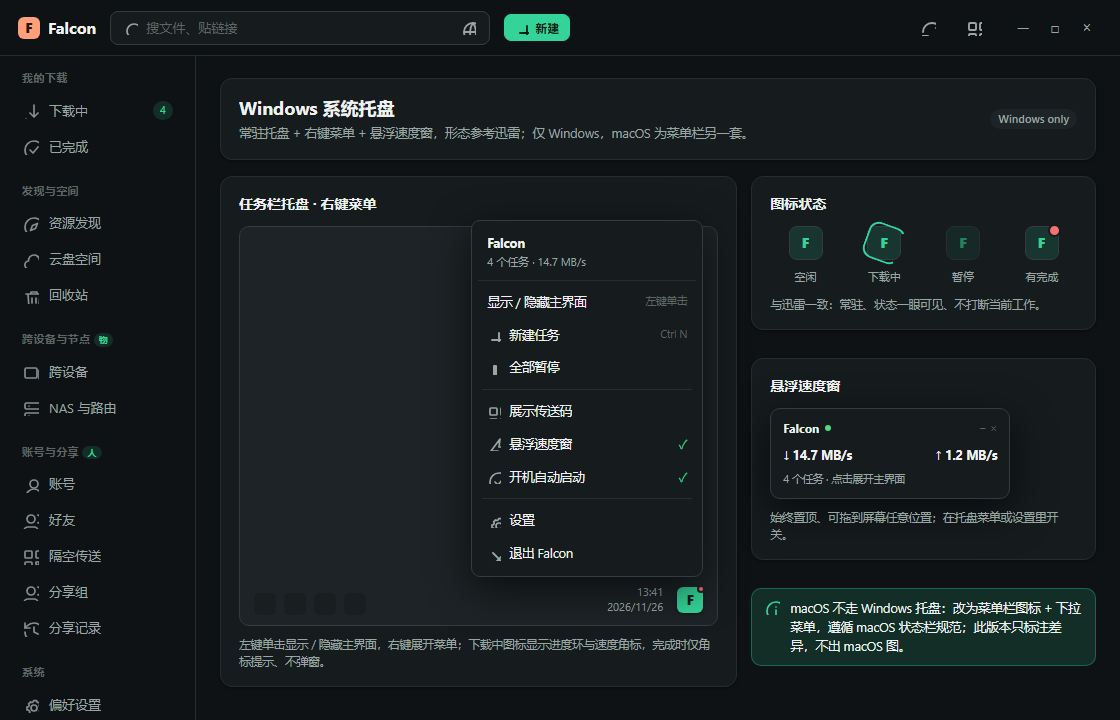
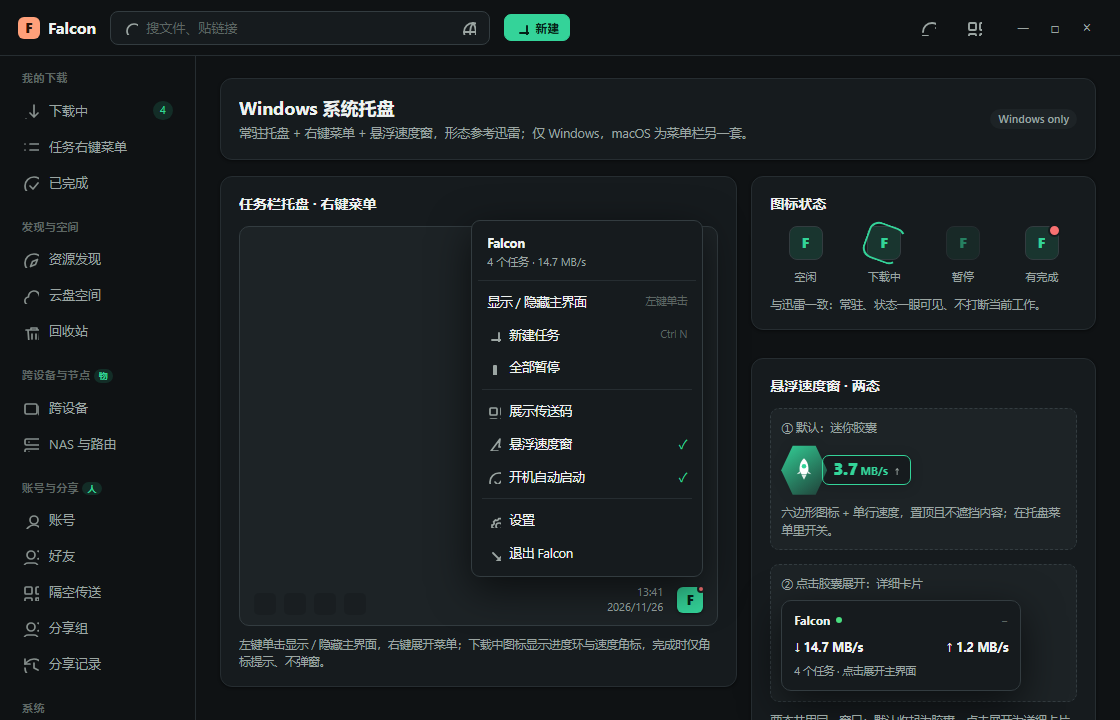
ui2

diff --git a/docs/design/ui-next/styles.css b/docs/design/ui-next/styles.css
@@ -820,7 +820,7 @@ hr.soft { border: 0; border-top: 1px solid var(--divider); margin: 14px 0; }
 .ctx-item.has-sub { position: relative; }
 .ctx-item .sub-arrow { width: 12px; height: 12px; margin-left: auto; }
 .ctx-sep { height: 1px; background: var(--divider); margin: 5px 4px; }
-.ctx-sub { position: absolute; left: 236px; top: -6px; width: 236px; padding: 6px; background: var(--card); border: 1px solid var(--border); border-radius: 9px; box-shadow: var(--shadow-pop); }
+.ctx-sub { position: absolute; left: 236px; top: -96px; width: 236px; padding: 6px; background: var(--card); border: 1px solid var(--border); border-radius: 9px; box-shadow: var(--shadow-pop); }
 .ctx-sub-title { font-size: 10.5px; color: var(--text-2); padding: 5px 8px 7px; }
 .ctx-sub-item { display: flex; align-items: center; justify-content: space-between; gap: 8px; font-size: 12px; padding: 7px 8px; border-radius: 6px; }
 .ctx-sub-item:hover { background: var(--hover-bg); }
@@ -874,6 +874,25 @@ hr.soft { border: 0; border-top: 1px solid var(--divider); margin: 14px 0; }
 .ts-ico.active::after { content: ""; position: absolute; inset: -3px; border-radius: 11px; border: 2px solid var(--accent); border-right-color: transparent; transform: rotate(20deg); }
 .ts-ico.paused { opacity: .55; }
 .ts-ico.done::after { content: ""; position: absolute; right: -3px; top: -3px; width: 9px; height: 9px; border-radius: 50%; background: var(--err); border: 2px solid var(--card); }
+.fs-state.fs-active { border-style: solid; border-color: var(--accent); box-shadow: 0 0 0 2px var(--accent-ring); }
+.fs-demo { display: flex; flex-direction: column; gap: 14px; margin-top: 10px; }
+.fs-state { padding: 10px; border: 1px dashed var(--border); border-radius: 9px; background: var(--control-bg); }
+.fs-mini { display: inline-flex; align-items: center; gap: 0; cursor: pointer; filter: drop-shadow(0 2px 6px rgba(0,0,0,.18)); }
+.fs-hex {
+  width: 46px; height: 52px; display: grid; place-items: center; color: #fff;
+  background: linear-gradient(145deg, var(--accent), var(--accent-soft));
+  clip-path: polygon(25% 3%, 75% 3%, 100% 50%, 75% 97%, 25% 97%, 0 50%);
+}
+.fs-hex svg { width: 30px; height: 30px; }
+.fs-pill {
+  display: inline-flex; align-items: baseline; gap: 3px; height: 30px; padding: 0 10px;
+  margin-left: -5px; border: 1.5px solid var(--accent); border-radius: 7px;
+  background: var(--card); color: var(--accent); font-size: 12px;
+}
+.fs-pill b { font-size: 17px; font-weight: 800; letter-spacing: -.5px; }
+.fs-pill span { font-size: 11px; font-weight: 650; }
+.fs-pill .fs-up { font-style: normal; font-size: 10px; margin-left: 4px; color: var(--text-2); }
+.fs-collapse { cursor: pointer; font-size: 14px; line-height: 1; }
 .fly-speed { width: 240px; border: 1px solid var(--border); border-radius: 10px; background: var(--card); box-shadow: var(--shadow-pop); padding: 10px 12px; }
 .fs-head { display: flex; gap: 6px; align-items: center; font-size: 12px; font-weight: 700; }
 .fs-dot { width: 6px; height: 6px; border-radius: 50%; background: var(--ok); }

diff --git a/docs/design/ui-next/app.js b/docs/design/ui-next/app.js
@@ -291,6 +291,17 @@
   drawQR();
   startTicker();
 
+  // 悬浮速度窗：迷你胶囊 ↔ 详细卡片，点击时标注当前态
+  document.querySelectorAll("[data-fs-toggle], [data-fs-collapse]").forEach(function (el) {
+    el.addEventListener("click", function () {
+      var demo = el.closest(".fs-demo");
+      if (!demo) return;
+      demo.querySelectorAll(".fs-state").forEach(function (s) { s.classList.remove("fs-active"); });
+      var target = el.classList.contains("fs-collapse") ? el.closest(".fs-state") : el.closest(".fs-state").nextElementSibling;
+      if (target) target.classList.add("fs-active");
+    });
+  });
+
   /* ---------- 键盘快捷键：← → 逐屏审查 ---------- */
   document.addEventListener("keydown", function (e) {
     if (e.target.matches("input, textarea")) return;

diff --git a/docs/design/ui-next/index.html b/docs/design/ui-next/index.html
@@ -236,7 +236,7 @@
             <span>463.5 MB</span><span>—</span><span>—</span><span class="tag gray">已暂停</span>
           </div>
 
-          <div class="ctx-menu" style="top:78px;left:36%">
+          <div class="ctx-menu" style="top:16px;left:36%">
             <div class="ctx-item"><svg class="ico"><use href="#i-pause"/></svg>暂停下载<kbd>Ctrl P</kbd></div>
             <div class="ctx-item"><svg class="ico"><use href="#i-folder"/></svg>打开文件夹<kbd>Ctrl E</kbd></div>
             <div class="ctx-item"><svg class="ico"><use href="#i-check"/></svg>收藏至收藏夹</div>

diff --git a/docs/design/ui-next/README.zh.md b/docs/design/ui-next/README.zh.md
@@ -12,7 +12,7 @@
 双击 `index.html` 用浏览器打开即可（纯静态，无依赖、无需构建）。
 
 - 顶部工具条：点色块切主题色，点「浅色 / 深色」切模式——**所有界面同步换色**，可直接对比三套主题在同一界面的观感。
-- 左侧导航：逐屏点击审查。每项对应一个界面，共 **22 屏**（含 6 个弹层预览 + 1 个 Web 端 + 1 个 Windows 托盘）。
+- 左侧导航：逐屏点击审查。每项对应一个界面，共 **24 屏**（含 7 个弹层预览 + 1 个 Web 端 + 1 个 Windows 托盘）。
 - 键盘 `←` / `→`：按顺序在界面间翻页。
 - 界面内的开关、复选、分段按钮、匹配码输入框都可点击操作，方便验证交互态。
 
@@ -33,7 +33,7 @@
 - 派生 token：`--accent-soft` / `--accent-ring` / `--track` / 状态色（ok/warn/err/info），均按方向 accent 派生，换肤时同步切换。
 - 主题切换入口在**设置页 → 外观**：主题色（暖橙/冷蓝/石墨绿）+ 主题模式（浅色/深色/**跟随系统**）。跟随系统时按 `prefers-color-scheme` 实时应用；顶部审查工具条是评审用的全局控制，与设置页双向联动。
 
-## 界面清单（22 屏）
+## 界面清单（24 屏）
 
 **沿用现有结构（本机 Falcon 实测 + 旧原型 14 功能面）**
 
@@ -41,7 +41,7 @@
 |---|---|---|
 | 1 | 下载中 · 卡片视图 | 首页；统计卡、4 类任务态（下载中/暂停/失败） |
 | 2 | 下载中 · 列表视图 | 同一数据的表格视图，七列；**默认进入列表视图** |
-| 3 | 已完成 | 完成列表、做种态、保存位置 |
+| 3 | 任务右键菜单 | 任务行右键 10 项 + 快捷键 + 「移动文件到」子菜单 + 多选态；显示原始节点数 / 剩余时间；剔除会员文案 |
 | 4 | 资源发现 | 关键词 + 大小筛选 + 相关度排序 + 一键下载；已启用资源站默认折叠为图标 |
 | 5 | 云盘空间 | S3/COS 与 NAS 连接卡、文件列表 |
 | 6 | 回收站 | 7 天保留期、还原/彻底删除 |
@@ -64,10 +64,11 @@
 | 18 | 分享记录 | 后续阶段 · 隔空传送与分组分享的追溯，不保留码本身 |
 | 19 | 登录（弹层） | 复用现有登录弹窗；第一期可隐藏入口 |
 | 20 | 编辑资料（弹层） | 昵称、头像、只读 Falcon ID |
-| 21 | NAS / 路由版 Web 管理 | 常驻节点最小集：任务 + 存储 + 配对，仅局域网 |
-| 22 | Windows 系统托盘 | 仅 Windows：常驻图标（空闲/下载/暂停/完成四态）+ 右键菜单 + 悬浮速度窗；macOS 为菜单栏另一套，本版不出图 |
+| 21 | 文件详情（弹层） | 由右键菜单进入：大小、路径、链接、原始节点数、校验；可跳云盘 |
+| 22 | NAS / 路由版 Web 管理 | 常驻节点最小集：任务 + 存储 + 配对，仅局域网 |
+| 23 | Windows 系统托盘 | 仅 Windows：常驻图标（空闲/下载/暂停/完成四态）+ 右键菜单 + 悬浮速度窗两态（迷你胶囊 / 展开详情）；macOS 为菜单栏另一套，本版不出图 |
 
-> 弹层预览共 6 个：屏 8 添加下载任务、屏 10 展示传送码、屏 11 匹配码配对、屏 13 添加 NAS 节点、屏 19 登录、屏 20 编辑资料。
+> 弹层预览共 7 个：屏 8 添加下载任务、屏 10 展示传送码、屏 11 匹配码配对、屏 13 添加 NAS 节点、屏 19 登录、屏 20 编辑资料、屏 21 文件详情。
 >
 > **配对机制**：扫码与手动输入是同一串 6 位码的两种形态，配对流程完全相同（syncbond / SPAKE2，端到端加密，中继看不到码与密钥）。扫码更快、手输兜底。
 
@@ -91,14 +92,20 @@
 
 ### 平台差异
 
-- Windows：系统托盘常驻 + 右键菜单 + 悬浮速度窗，形态参考迅雷（屏 22）。
+- Windows：系统托盘常驻 + 右键菜单 + 悬浮速度窗，形态参考迅雷（屏 23）。悬浮速度窗为两态：默认迷你胶囊（六边形图标 + 单行速度 3.7 MB/s），点击展开为详细卡片（上下行速度 + 进度 + 任务数）；窗口置顶可拖动，状态在托盘菜单开关。
 - macOS：使用菜单栏图标与下拉菜单，遵循系统状态栏规范；与 Windows 托盘是两套实现，本版只标注差异。
+
+### 任务右键菜单（屏 3）
+
+- 沿用迅雷右键菜单形态并 Falcon 化：暂停下载 `Ctrl P`、打开文件夹 `Ctrl E`、收藏至收藏夹、文件详情 `Ctrl I`、添加到云盘 `Ctrl Y`、删除 `Del`、彻底删除 `Shift Del`、移动文件到（子菜单）、复制下载链接 `Ctrl C`、取消全选（多选态出现过）。
+- 剔除「会员试用」等商业化文案；任务行补「原始节点数 / 剩余时间」，便于判断来源质量与完成时间。
+- 「文件详情」「添加到云盘」做成可跳转动作，分别进入屏 21 与屏 5；菜单与列表共用同一任务对象。
 
 ## 设计图导出
 
 `src/public/design/ui-next/screens/` 下是原型导出的静态图：
 
-- 3 主题色 × 亮/暗 × 22 屏 = **132 张 PNG**；目录名如 `warm-light`、`cold-dark`。
+- 3 主题色 × 亮/暗 × 24 屏 = **144 张 PNG**；目录名如 `warm-light`、`cold-dark`。新增两屏在各目录末尾顺延编号（如 warm-light 的 `023-task-context-menu.png`、`024-task-detail.png`）。
 - 文件名序号为导出批次号，界面名称见文件名后半段；README 与文档站引用这些图片。
 - 导出模式由 URL 参数控制：`?clean=1&theme=warm&mode=light&screen=download-table`，会隐藏评审工具条并关闭入场动画。
 
@@ -114,14 +121,14 @@
 3. 左侧导航「跨设备与节点」与「账号与分享」两个分组是否符合预期位置？
 4. 第一期是否隐藏账号入口（屏 14/15/17/18 仅作设计预留）？
 5. LocalSend 兼容是否进入第一期；DHT 节点数是否在第一期结果里展示？
-6. Windows 托盘菜单项（尤其「展示传送码」「悬浮速度窗」）是否符合预期？
+6. Windows 托盘菜单项（尤其「展示传送码」「悬浮速度窗」）与悬浮速度窗两态是否符合预期？
 7. NAS Web 管理界面「任务 + 存储 + 配对」最小集是否够用？
 
 ## 文件
 
 ```
 ui-next/
-├── index.html   # 原型入口（22 屏 + 审查工具条 + 模拟窗口壳）
+├── index.html   # 原型入口（24 屏 + 审查工具条 + 模拟窗口壳）
 ├── styles.css   # 6 套主题变量（3 主题 × 2 模式）+ 组件样式
 ├── app.js       # 主题切换 / 导航 / 轻交互 / 截图导出参数
 └── README.zh.md # 本说明

diff --git a/docs/README.zh.md b/docs/README.zh.md
@@ -37,7 +37,7 @@ pnpm docs:build
 
 ## 当前设计稿
 
-桌面端唯一在维护的设计是 `design/ui-next/`（纯静态交互原型，22 屏）。导出的设计图在 `src/public/design/ui-next/screens/`：3 主题色 × 亮暗 × 22 屏 = 132 张 PNG，文档中的设计图统一引用这里。
+桌面端唯一在维护的设计是 `design/ui-next/`（纯静态交互原型，24 屏）。导出的设计图在 `src/public/design/ui-next/screens/`：3 主题色 × 亮暗 × 24 屏 = 144 张 PNG，文档中的设计图统一引用这里。
 
 ![Falcon 下载中 · 列表视图（暖橙默认）](src/public/design/ui-next/screens/warm-light/001-download-table.png)
 
@@ -51,10 +51,10 @@ docs/
 ├── README.md / README.zh.md    # 文档站说明（双语索引）
 ├── ARCHIVE.md                # 根目录历史文档索引
 ├── design/                   # 当前设计
-│   └── ui-next/              # 22 屏交互原型 + 设计说明（唯一保留设计）
+│   └── ui-next/              # 24 屏交互原型 + 设计说明（唯一保留设计）
 ├── src/                      # VitePress 源文件
 │   ├── public/               # 静态资源
-│   │   └── design/ui-next/screens/  # 132 张设计图（文档引用源）
+│   │   └── design/ui-next/screens/  # 144 张设计图（文档引用源）
 │   ├── index.md              # 首页
 │   ├── .vitepress/           # VitePress 配置
 │   │   └── config.mts        # 主配置

diff --git a/docs/src/zh/developer/design-prototypes.md b/docs/src/zh/developer/design-prototypes.md
@@ -26,7 +26,7 @@
 
 ## 原型覆盖范围
 
-原型共 22 屏：现有下载 / 资源发现 / 云盘 / 回收站 / 偏好设置，以及规划中的
+原型共 24 屏：现有下载 / 资源发现 / 云盘 / 回收站 / 偏好设置，以及规划中的
 跨设备、账号与分享、NAS 与 Windows 托盘。关键结论：
 
 - **跨设备 ↔ 账号与分享**：设备属「物」，账号属「人」，分享组连接两者。
@@ -34,8 +34,8 @@
   更快输入方式。
 - **LocalSend** 可作为局域网发现通道兼容；AirDrop 只走系统分享入口（AWDL
   为私有协议）；DHT 是下载结果的 peer 发现层，不是资源站。
-- **Windows 托盘**为常驻图标 + 右键菜单 + 悬浮速度窗；macOS 是另一套菜单栏
-  实现。
+- **Windows 托盘**为常驻图标 + 右键菜单 + 悬浮速度窗（默认迷你胶囊、点击展开详细卡片）；macOS 是另一套菜单栏实现。
+- **任务右键菜单**沿用迅雷 10 项形态（暂停 / 文件夹 / 收藏 / 详情 / 云盘 / 删除 / 彻底删除 / 移动 / 复制链接 / 取消全选），Falcon 化去掉会员文案，并补「原始节点数 / 剩余时间」；「文件详情」「添加到云盘」可跳转。
 
 完整设计说明见仓库中的 `docs/design/ui-next/README.zh.md`。
 

diff --git a/docs/src/developer/design-prototypes.md b/docs/src/developer/design-prototypes.md
@@ -29,7 +29,7 @@ brand anchor: it stays the same in every theme.
 
 ## What the prototype covers
 
-The prototype has 22 screens: the existing download / discovery / cloud /
+The prototype has 24 screens: the existing download / discovery / cloud /
 recycle / settings flows, plus the planned cross-device, account & sharing,
 NAS, and Windows tray flows. Key decisions documented there:
 
@@ -41,8 +41,12 @@ NAS, and Windows tray flows. Key decisions documented there:
 - **LocalSend** can be supported as a LAN discovery channel; AirDrop stays a
   system share entry (AWDL is proprietary); DHT is a peer-discovery layer for
   download results, not a resource site.
-- **Windows tray**: persistent icon, context menu, and floating speed window;
-  macOS uses a separate menu-bar implementation.
+- **Windows tray**: persistent icon, context menu, and a two-state floating
+  speed window (mini capsule by default, expandable detail card); macOS uses
+  a separate menu-bar implementation.
+- **Task context menu**: the 10-item Xunlei-shaped menu is Falcon-branded
+  (no membership promo), adds original-peer-count / remaining-time on rows,
+  and makes "File details" and "Add to cloud" navigable.
 
 See the full Chinese design brief in the repository:
 `docs/design/ui-next/README.zh.md`.

diff --git a/README.zh.md b/README.zh.md
@@ -17,7 +17,7 @@
 </div>
 
 界面截图与设计原型统一在[文档站](https://cuihairu.github.io/falcon/zh/)首页展示；
-完整图库（132 张：22 屏 × 三主题色 × 亮暗）见 [docs/src/public/design/ui-next/screens/](docs/src/public/design/ui-next/screens/)。
+完整图库（144 张：24 屏 × 三主题色 × 亮暗）见 [docs/src/public/design/ui-next/screens/](docs/src/public/design/ui-next/screens/)。
 
 ## 特性
 
@@ -289,7 +289,7 @@ daemon 在 `POST /mcp` 暴露 MCP（Model Context Protocol）端点（Streamable
   <img src="docs/src/public/design/ui-next/screens/warm-light/001-download-table.png" alt="下载视图 · 表格（暖橙亮色）" width="49%"/>
 </p>
 
-完整图库（22 屏 × 三主题色 × 亮暗，共 132 张）见
+完整图库（24 屏 × 三主题色 × 亮暗，共 144 张）见
 [`docs/src/public/design/ui-next/screens/`](docs/src/public/design/ui-next/screens/) 与
 [文档站](https://cuihairu.github.io/falcon/zh/)；设计说明与讨论结论见
 [ui-next README](docs/design/ui-next/README.zh.md)。

diff --git a/README.md b/README.md
@@ -19,8 +19,8 @@
 </div>
 
 Screenshots and design prototypes are showcased on the
-[docs site](https://cuihairu.github.io/falcon/); the full gallery (132 shots:
-22 screens × three accent themes × light/dark) lives in
+[docs site](https://cuihairu.github.io/falcon/); the full gallery (144 shots:
+24 screens × three accent themes × light/dark) lives in
 [docs/src/public/design/ui-next/screens/](docs/src/public/design/ui-next/screens/).
 
 ## Features
@@ -322,7 +322,7 @@ are exported from that prototype:
   <img src="docs/src/public/design/ui-next/screens/warm-light/001-download-table.png" alt="Downloads · table view (warm light)" width="49%"/>
 </p>
 
-The full gallery (22 screens × three themes × light/dark, 132 shots) lives in
+The full gallery (24 screens × three themes × light/dark, 144 shots) lives in
 [`docs/src/public/design/ui-next/screens/`](docs/src/public/design/ui-next/screens/) and on the
 [docs site](https://cuihairu.github.io/falcon/); the design brief and decisions
 are in [ui-next README](docs/design/ui-next/README.zh.md).

diff --git a/docs/README.md b/docs/README.md
@@ -38,9 +38,9 @@ The build output is written to `docs/src/.vitepress/dist/`.
 ## Current design
 
 The only maintained desktop design is `design/ui-next/`: a static interactive
-prototype with 22 screens. Exported screenshots live in
+prototype with 24 screens. Exported screenshots live in
 `src/public/design/ui-next/screens/` — 3 accent themes × light/dark × 22
-screens = 132 PNGs, and all design images in the docs reference this folder.
+screens = 144 PNGs, and all design images in the docs reference this folder.
 
 ![Falcon downloading · table view (warm, default)](src/public/design/ui-next/screens/warm-light/001-download-table.png)
 

diff --git a/docs/审计-文档一致性.md b/docs/审计-文档一致性.md
@@ -2,8 +2,8 @@
 
 > [!NOTE]
 > 以下是历史审计记录，原样保留。文中提到的 `docs/design/prototypes/`、`docs/design/ui-sandbox/`
-> 等旧设计资产已删除；当前唯一设计稿是 `docs/design/ui-next/`（22 屏原型），
-> 设计图在 `docs/src/public/design/ui-next/screens/`（132 张）。
+> 等旧设计资产已删除；当前唯一设计稿是 `docs/design/ui-next/`（24 屏原型），
+> 设计图在 `docs/src/public/design/ui-next/screens/`（144 张）。
 
 - **审计日期**: 2026-11-02
 - **目标仓库**: cuihairu/falcon (main @ a4087b6)

diff --git a/docs/src/index.md b/docs/src/index.md
@@ -39,7 +39,7 @@ keys.
 
 <ShowcaseCarousel />
 
-> More UI screenshots (132 in total: 22 screens × three accent themes ×
+> More UI screenshots (144 in total: 24 screens × three accent themes ×
 > light/dark) are available in the repository at
 > [docs/design/ui-next/screens/](https://github.com/cuihairu/falcon/tree/main/docs/src/public/design/ui-next/screens).
 
